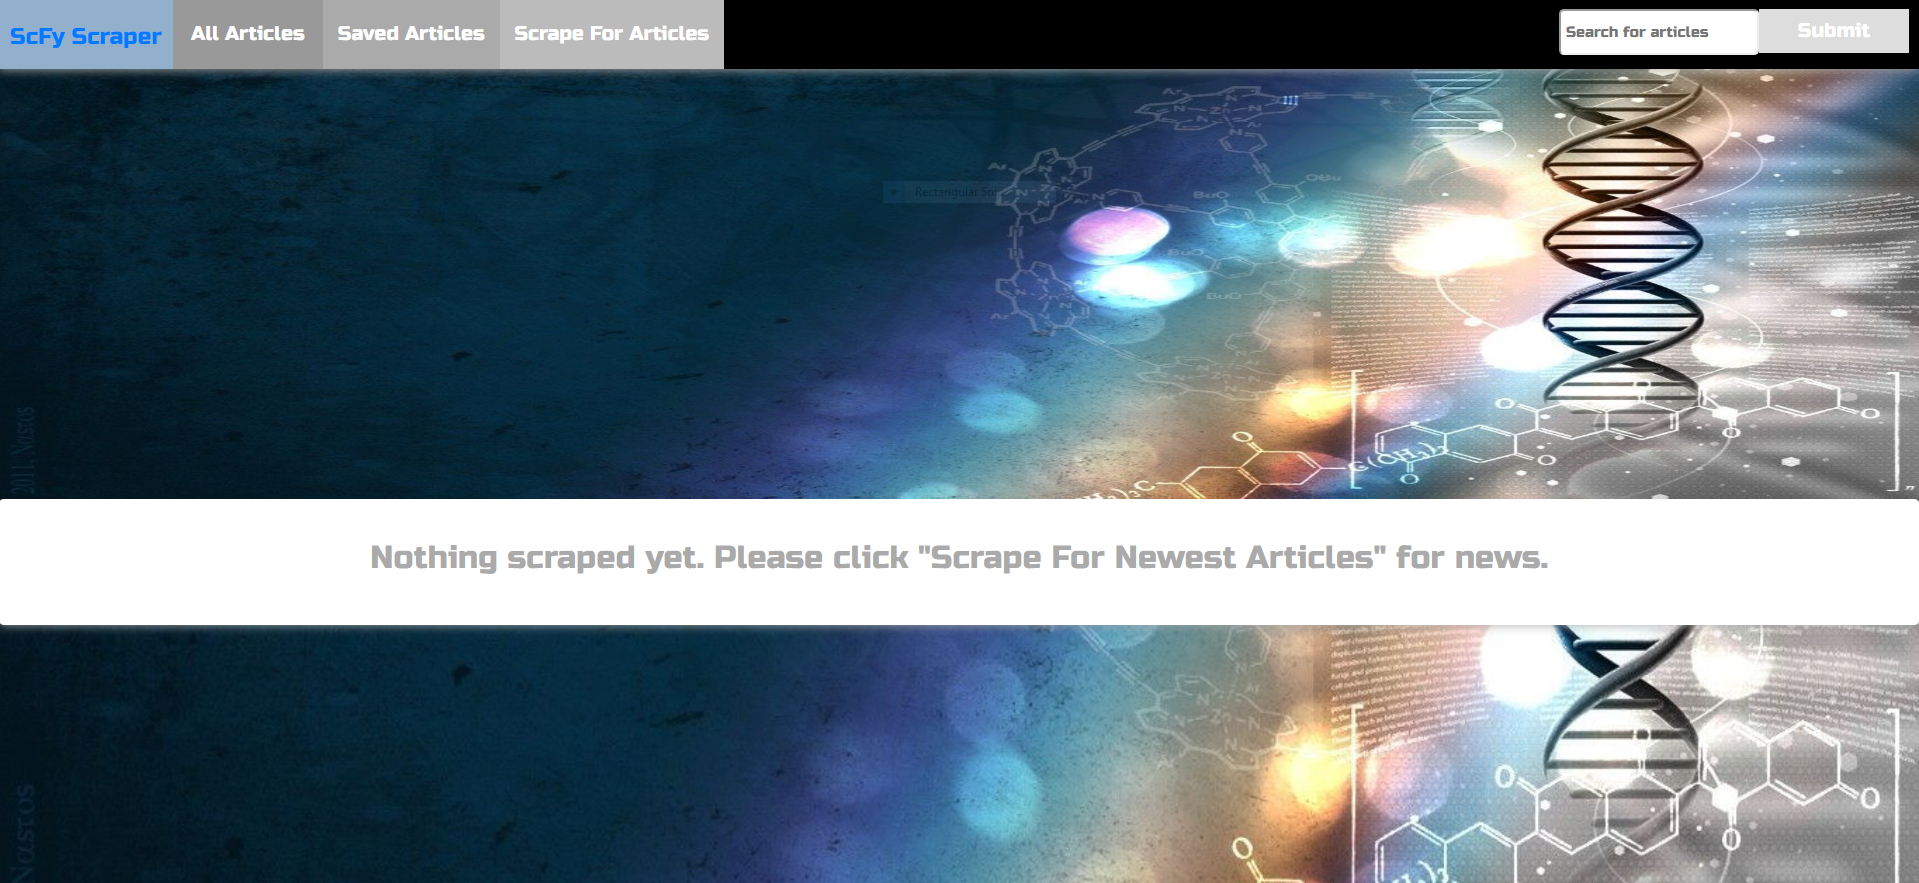
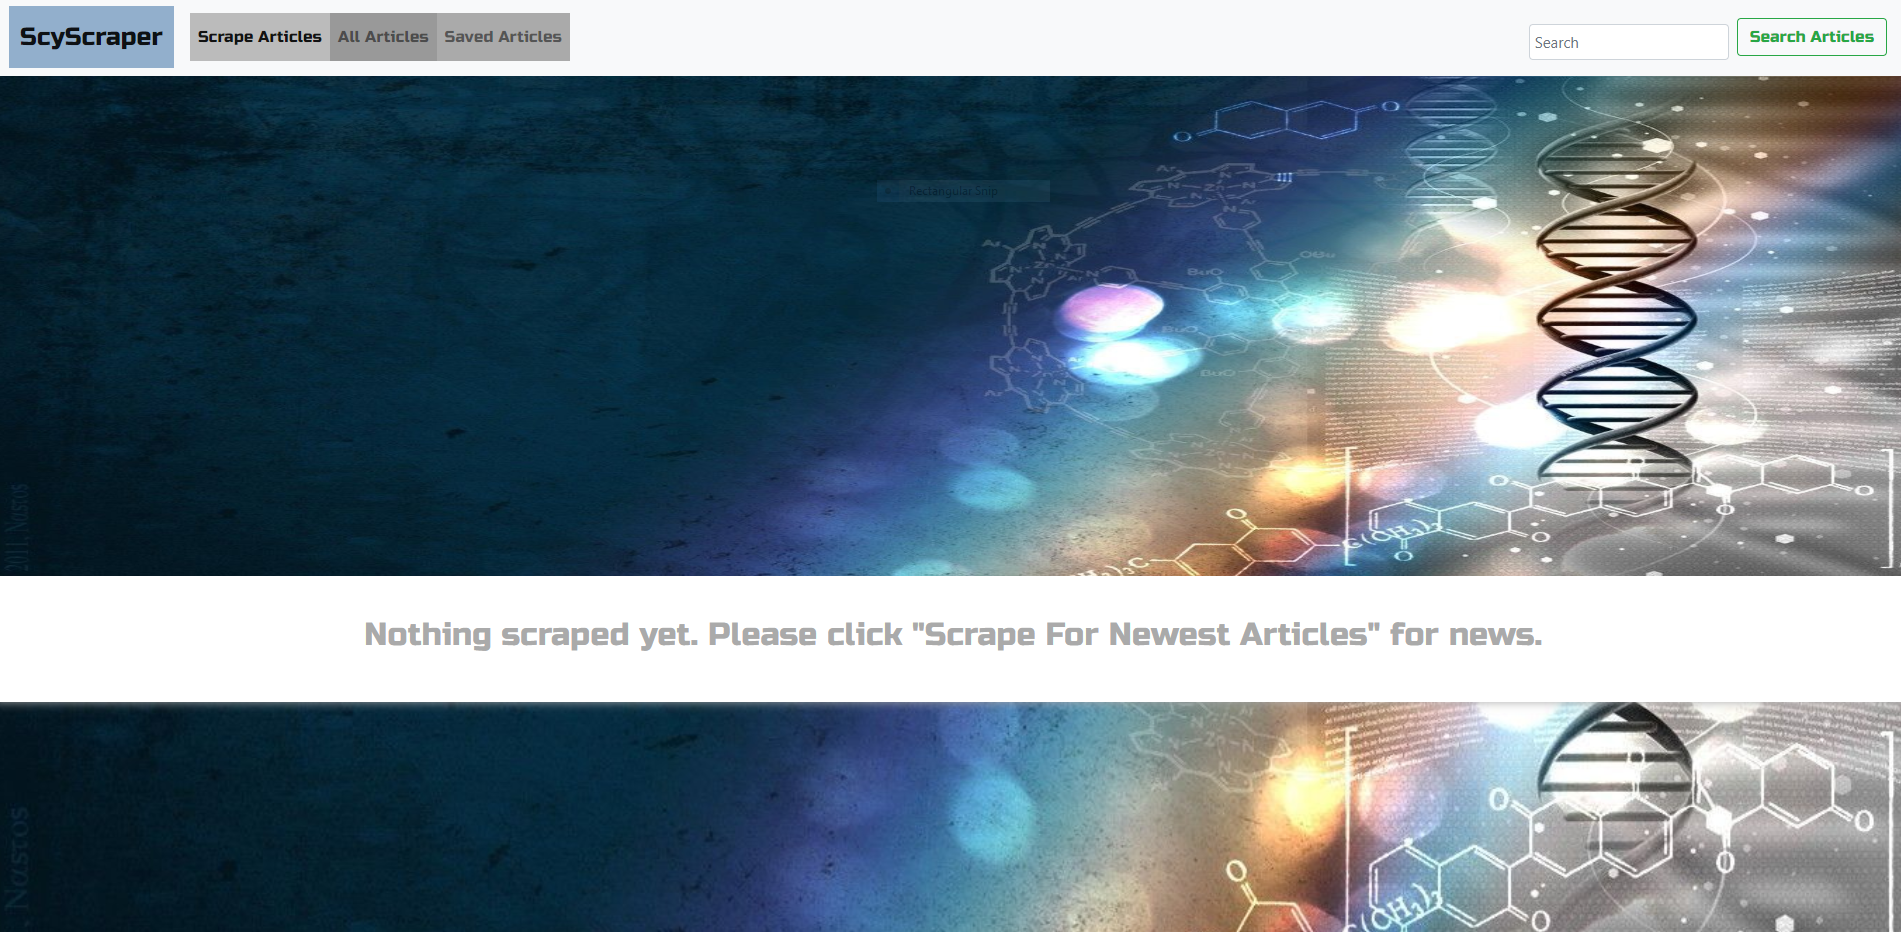
update

diff --git a/public/assets/css/style.css b/public/assets/css/style.css
@@ -18,9 +18,7 @@ a {
 	color: #fff;
 }
 
-header form {
-	display: inline;
-}
+
 
 header {
 	position: fixed;
@@ -46,14 +44,17 @@ header button {
 
 #all-articles {
 	background-color: #999;
+	font-family: 'Russo One', sans-serif;
 }
 
 #saved-articles {
 	background-color: #aaa;
+	font-family: 'Russo One', sans-serif;
 }
 
 #refresh-articles {
 	background-color: #bbb;
+	font-family: 'Russo One', sans-serif;
 }
 
 #all-articles:hover, #saved-articles:hover, #refresh-articles:hover {
@@ -75,6 +76,7 @@ header button {
 	margin-top: 10px;
 	height: 63%;
 	margin-right: 10px;
+	font-family: 'Russo One', sans-serif;
 }
 
 #sitename {
@@ -82,7 +84,8 @@ header button {
 	padding: 15px 11px;
 	height: 100%;
 	background-color: #92afcc;
-	font-size: 23px;
+	font-size: 25px;
+	font-family: 'Russo One', sans-serif;
 }
 
 #cover {
